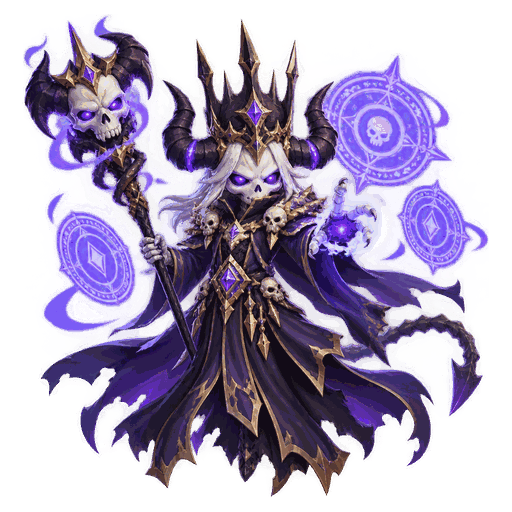
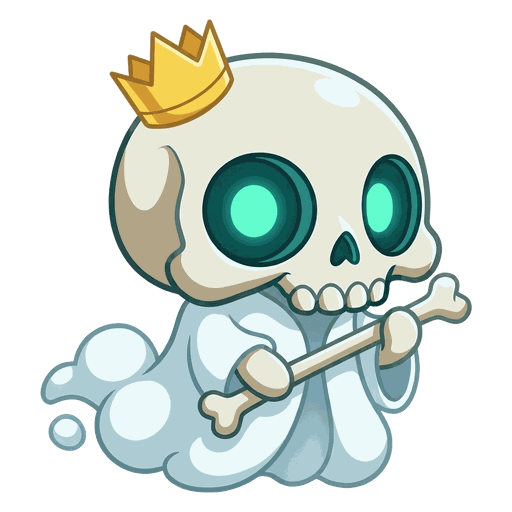
포켓몬풍 셀 셰이딩 소환수 그림 전체 교체(알·1·2·3단계 92장), 종족별 다른 얼굴·체형, 인간 그림 제거

diff --git a/index.html b/index.html
@@ -790,7 +790,7 @@ body.rare{background:#15141c}
 <div class="circle altar hidden" id="circle"><div class="ring"><div class="mc"><img class="mc1" src="img/bg/circle.png?v=2" alt=""><img class="mc2" src="img/bg/circle.png?v=2" alt=""></div><div class="sparks"><i style="left:18%;animation-delay:0s"></i><i style="left:30%;animation-delay:0.6s"></i><i style="left:42%;animation-delay:1.1s"></i><i style="left:55%;animation-delay:0.3s"></i><i style="left:66%;animation-delay:0.9s"></i><i style="left:78%;animation-delay:1.4s"></i><i style="left:24%;animation-delay:1.7s"></i><i style="left:48%;animation-delay:2s"></i><i style="left:72%;animation-delay:0.5s"></i><i style="left:36%;animation-delay:1.3s"></i></div><div class="who" id="c_art"></div></div><div class="ctext" id="c_text">소환진이 빛나요</div><div class="info hidden" id="c_info"></div><div class="beam"></div><div class="flash"></div></div>
 <div class="toast" id="toast"></div>
 
-<script src="game.js?v=29"></script>
+<script src="game.js?v=30"></script>
 <script>
 const QS=[
  {q:"마을 다리가 끊겼어요. 뭐부터 할래요?",o:[["왜 끊겼는지 본다","workshop"],["배를 구해 온다","market"],["다친 사람부터 찾는다","clinic"],["돌아가는 길을 찾는다","trail"]]},

diff --git a/battle.html b/battle.html
@@ -493,7 +493,7 @@ button{font-family:inherit;cursor:pointer}
 </div>
 <div class="toast" id="toast"></div>
 
-<script src="game.js?v=29"></script>
+<script src="game.js?v=30"></script>
 <script>
 function toast(t){const e=$("toast");e.textContent=t;e.classList.add("show");setTimeout(()=>e.classList.remove("show"),1800)}
 const UNDEAD=new Set(["스켈레톤","유령","뱀파이어","임프"]);

diff --git a/game.js b/game.js
@@ -191,7 +191,7 @@ function judge(b,ans){
  return {race,job,path,pow,elem,id,stages,base,skills};
 }
 
-const IMGV="4";
+const IMGV="5";
 const ELEMART=false; // 속성별 그림(img/race/<종족>_<단계>_<속성>.png)을 다 넣으면 true
 /* 속성 색 (오라 등에 씀) */
 const ELEMCOLOR={fire:"#ff6b4a",water:"#4aa8ff",earth:"#f2c440",wind:"#4cd49a",light:"#e8eefc",dark:"#9a6cff"};
